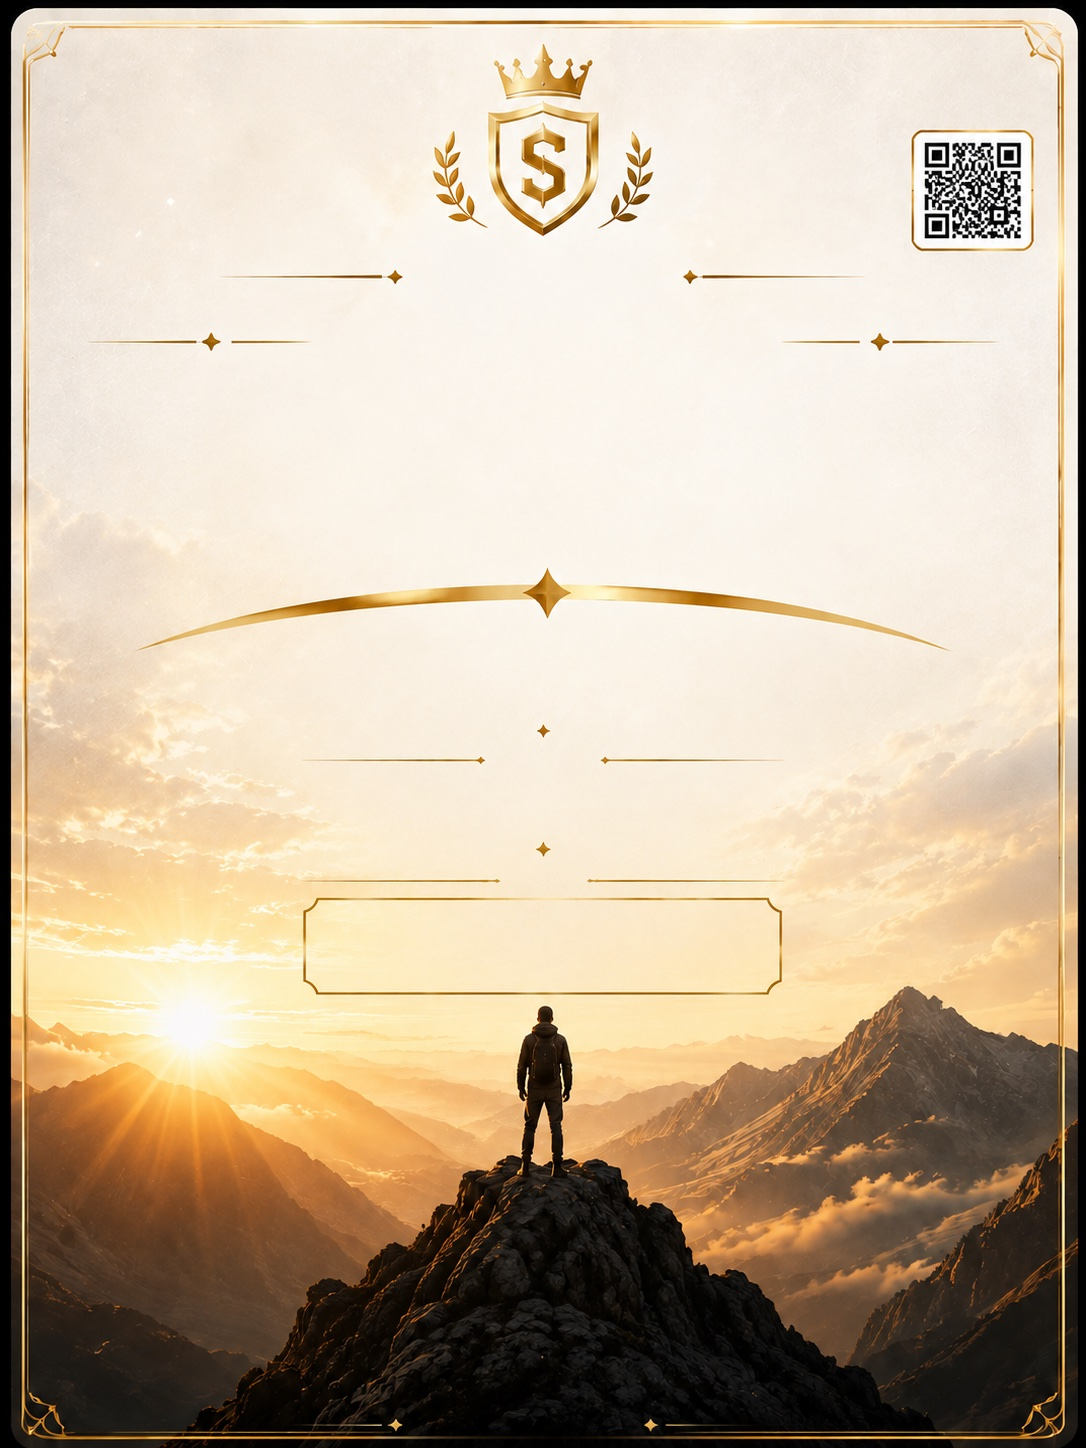
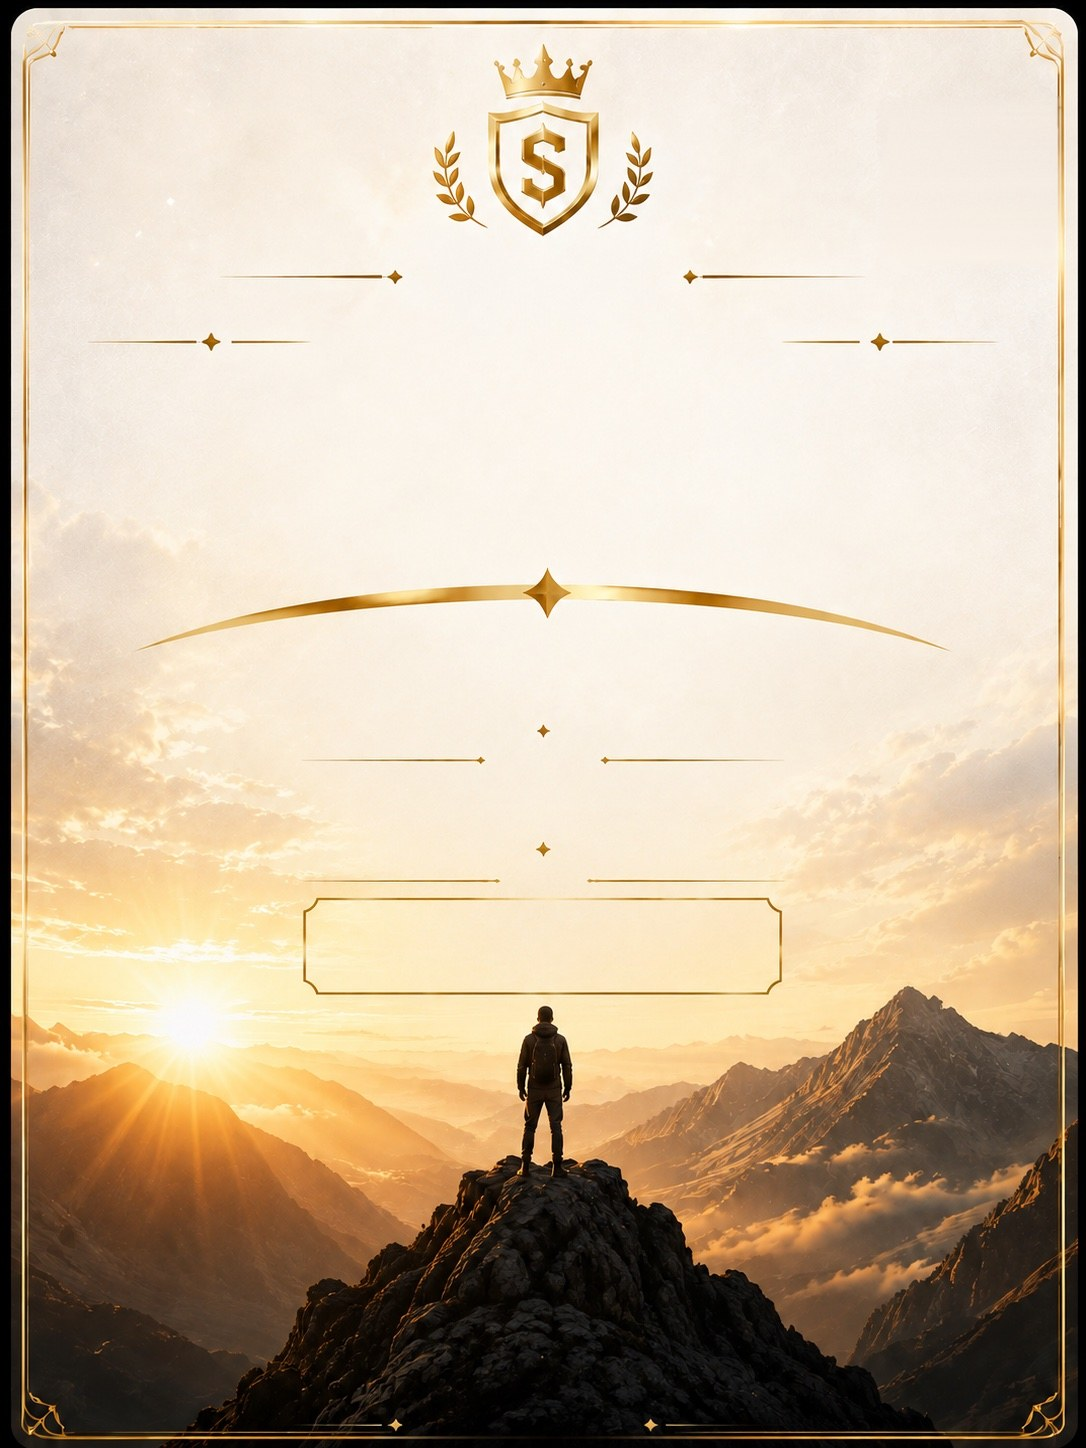
feat(stakes): P4 - QR healed out of the pledge plate, polish + log
The AI-baked QR code is gone from the plate JPEG itself (row-sampled
parchment patch with feathered blend, scripted) - no plate regeneration
needed, and the SidePal cover chip is removed since there is nothing
left to cover. Decision-log entry records the six implementation
decisions (pledgeWhy on the doc, theme-exempt CardSans card, native
plate aspects, 'I SAID I WOULD' labels, healed plate, zero-change
surrender) and the two open questions (result-card notification,
Save to Photos).

Changed region(s): [[0.8204, 0.0932, 0.9724, 0.1865]]

diff --git a/lib/features/accountability/presentation/cards/commitment_card.dart b/lib/features/accountability/presentation/cards/commitment_card.dart
@@ -85,8 +85,6 @@ class _Ink {
   static const goldDeep = Color(0xFF8A6A2E);
   static const gold = Color(0xFFA9822F);
   static const goldBoxText = Color(0xFF6B5320);
-  static const parchmentChip = Color(0xFFF2EADB);
-  static const chipBorder = Color(0xFFC2A05E);
   // Success (dark green/gold plate).
   static const successGoldHi = Color(0xFFF6E7B0);
   static const successGoldLo = Color(0xFFD9A937);
@@ -315,37 +313,6 @@ class CommitmentCard extends StatelessWidget {
         ? "I'M SHARING THIS. HOLD ME ACCOUNTABLE."
         : '${data.displayName.toUpperCase()} · HOLD ME ACCOUNTABLE.';
     return [
-      // Covers the AI-baked QR code in the plate's top-right corner until
-      // the plate is regenerated without it (see asset commit note).
-      Positioned(
-        left: w * 0.795,
-        top: h * 0.075,
-        right: w * 0.043,
-        height: h * 0.094,
-        child: Container(
-          decoration: BoxDecoration(
-            color: _Ink.parchmentChip,
-            borderRadius: BorderRadius.circular(8),
-            border: Border.all(color: _Ink.chipBorder, width: 1.2),
-          ),
-          alignment: Alignment.center,
-          child: const FittedBox(
-            fit: BoxFit.scaleDown,
-            child: Padding(
-              padding: EdgeInsets.all(4),
-              child: Text(
-                'SidePal',
-                style: TextStyle(
-                  fontFamily: kCardFontFamily,
-                  color: _Ink.goldDeep,
-                  fontWeight: FontWeight.w800,
-                  fontSize: 11,
-                ),
-              ),
-            ),
-          ),
-        ),
-      ),
       _zone(
         w,
         h,

diff --git a/documentation/GUIDELINES.md b/documentation/GUIDELINES.md
@@ -2852,3 +2852,25 @@ not silent reversal.
   carries the Recommit CTA; zero-progress gets pure recommit framing.
   `h2hMoney`/`teamMoney`/`soloMoney` stay dormant in the model behind the
   provider abstraction in case payments ever get legal + simple.
+
+- **2026-09-01 · Public Commitment Cards P1–P4 shipped** (branch
+  feat/public-commitment-cards, PRD tasks/prd-public-commitment-cards.md).
+  *Implementation decisions worth not relitigating:* (1) `pledgeWhy` now
+  lives ON the challenge doc (server + Isar mirror column) so cards
+  regenerate forever — the pledge_signed event stays the audit record;
+  legacy docs render without the note line. (2) The card widget is the
+  decision-logged AppColors/theme exemption (PRD §6): fixed per-state
+  palette, bundled `CardSans` (Roboto from the SDK cache, Apache 2.0) so
+  exports are byte-identical across platforms — flutter_test's Ahem font
+  and iOS/Android divergence both forced this. (3) Plates render at NATIVE
+  aspect (pledge 3:4, results 2:3) composited onto 9:16/1:1 canvases —
+  cover-cropping breaks their framed borders. (4) Result-card labels read
+  "I SAID I WOULD <goal>" because goal titles are imperative ("Finish my
+  portfolio") — verb-carrying labels double the verb. (5) The baked AI QR
+  on the pledge plate was healed out of the JPEG itself (row-sampled
+  parchment patch, scripted in-session) — no plate regeneration needed.
+  (6) Surrender needed ZERO server changes: a zero-stake participant
+  already resolves `completed_surrendered` with honest units. *Still open
+  (OQ-1/OQ-2, Miko's call):* result-card local notification; Save to
+  Photos (`gal` + iOS permission). *Deploy:* `solo_public` + `pledgeWhy`
+  ride the pending `firebase deploy --only functions` with reminder V2.
